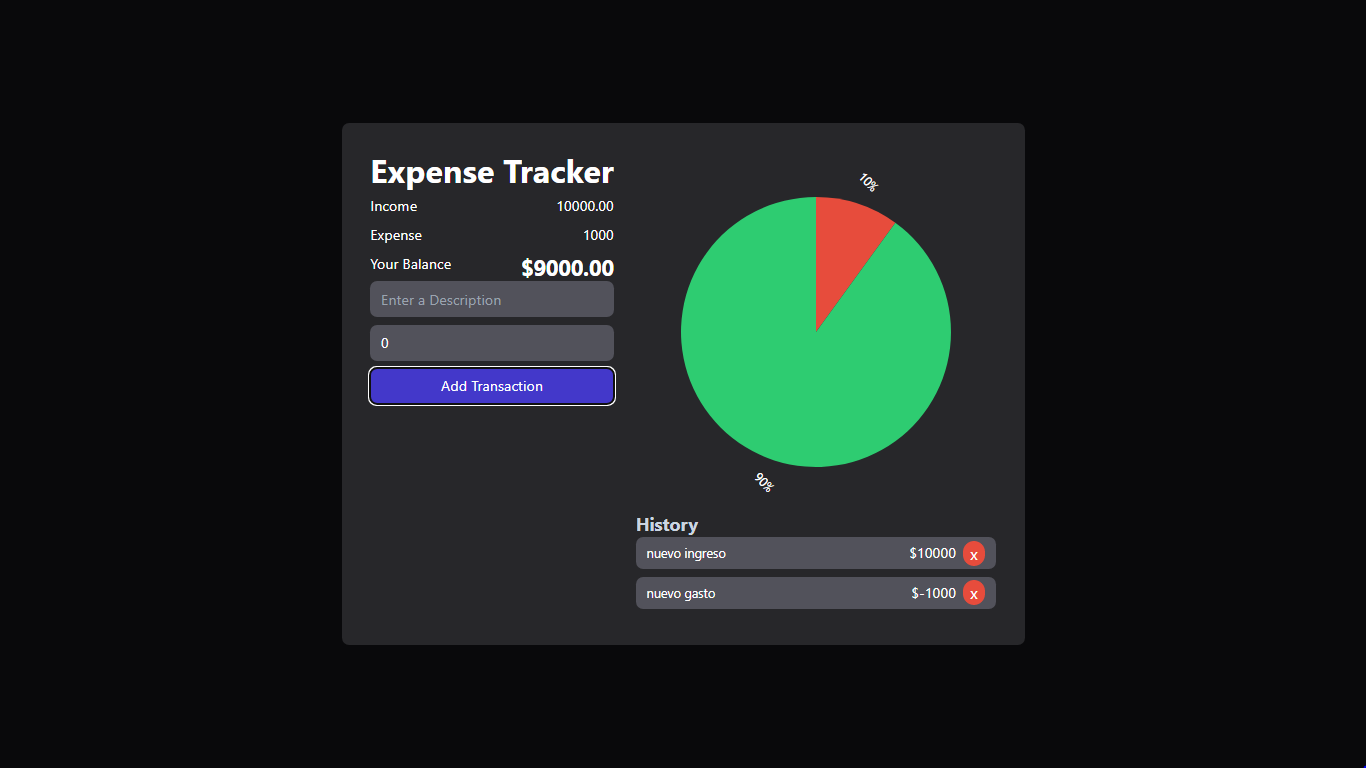
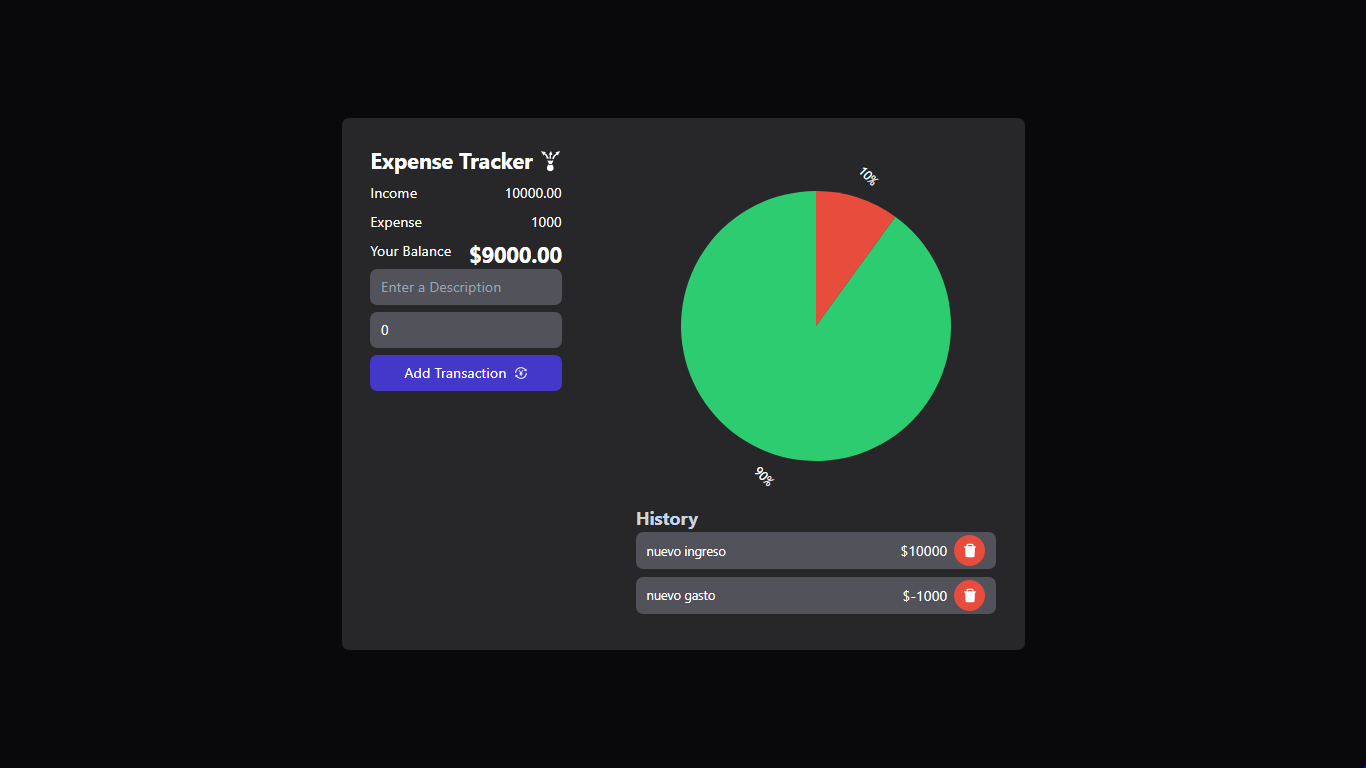
expense-tracker

diff --git a/src/components/ExpenseChart.jsx b/src/components/ExpenseChart.jsx
@@ -1,3 +1,6 @@
+//react-icons
+import { AiFillPieChart } from "react-icons/ai";
+
 //react-victory
 import { VictoryPie, VictoryLabel } from "victory";
 
@@ -9,6 +12,8 @@ const ExpenseChart = () => {
   const { transactions } = useGlobalState();
 
   //variables
+  const amounts = transactions.map((transaction) => transaction.amount);
+  const total = amounts.reduce((acc, item) => (acc += item), 0).toFixed(2);
   const totalIncome = transactions
     .filter((transaction) => transaction.amount > 0)
     .reduce((acc, transaction) => (acc += transaction.amount), 0);
@@ -22,16 +27,32 @@ const ExpenseChart = () => {
   const totalIncomePercentage = 100 - totalExpensesPercentage;
 
   return (
-    <VictoryPie
-      colorScale={["#e74c3c", "#2ecc71"]}
-      data={[
-        { x: "Expenses", y: totalExpensesPercentage },
-        { x: "Incomes", y: totalIncomePercentage },
-      ]}
-      animate={{ duration: 200 }}
-      labels={({ datum }) => `${datum.y}%`}
-      labelComponent={<VictoryLabel angle={45} style={{ fill: "white" }} />}
-    />
+    <>
+      {+total === 0 ? (
+        <h2 className="text-slate-300 text-lg font-bold block mb-5">
+          <p className="flex items-center justify-start gap-x-2">
+            No transactions: unable to display the chart <AiFillPieChart />
+          </p>
+        </h2>
+      ) : +total < 0 ? (
+        <h2 className="text-slate-300 text-lg font-bold block mb-5">
+          <p className="flex items-center justify-start gap-x-2">
+            Negative balance: unable to display the graph <AiFillPieChart />
+          </p>
+        </h2>
+      ) : (
+        <VictoryPie
+          colorScale={["#e74c3c", "#2ecc71"]}
+          data={[
+            { x: "Expenses", y: totalExpensesPercentage },
+            { x: "Incomes", y: totalIncomePercentage },
+          ]}
+          animate={{ duration: 200 }}
+          labels={({ datum }) => `${datum.y}%`}
+          labelComponent={<VictoryLabel angle={45} style={{ fill: "white" }} />}
+        />
+      )}
+    </>
   );
 };
 

diff --git a/src/context/ExpenseTrackerContext.jsx b/src/context/ExpenseTrackerContext.jsx
@@ -1,6 +1,9 @@
 //react
 import { createContext, useContext, useReducer, useEffect } from "react";
 
+//sweetalert2
+import Swal from "sweetalert2";
+
 //reducer
 import AppReducer from "./AppReducer";
 
@@ -33,16 +36,60 @@ export const ExpenseTrackerProvider = ({ children }) => {
 
   //functions
   const addTransaction = (transaction) => {
-    dispatch({
-      type: "ADD_TRANSACTION",
-      payload: transaction,
+    Swal.fire({
+      icon: "question",
+      title: "Question",
+      text: "do you want to add this transaction to the transaction list?",
+      showDenyButton: true,
+      denyButtonText: "No",
+      denyButtonColor: "#4338ca",
+      confirmButtonText: "Yes",
+      confirmButtonColor: "#2ecc71",
+    }).then((response) => {
+      if (response.isConfirmed) {
+        dispatch({
+          type: "ADD_TRANSACTION",
+          payload: transaction,
+        });
+        Swal.fire({
+          icon: "success",
+          title: "Success",
+          text: "Task successfully deleted",
+          timer: 2000,
+          confirmButtonColor: "#2ecc71",
+        });
+      } else if (response.isDenied) {
+        return;
+      }
     });
   };
 
   const deleteTransaction = (id) => {
-    dispatch({
-      type: "DELETE_TRANSACTION",
-      payload: id,
+    Swal.fire({
+      icon: "error",
+      title: "Warning",
+      text: "Do you want to remove this transaction from the transaction list?",
+      showDenyButton: true,
+      denyButtonText: "No",
+      denyButtonColor: "#4338ca",
+      confirmButtonText: "Yes",
+      confirmButtonColor: "#e74c3c",
+    }).then((response) => {
+      if (response.isConfirmed) {
+        dispatch({
+          type: "DELETE_TRANSACTION",
+          payload: id,
+        });
+        Swal.fire({
+          icon: "success",
+          title: "Success",
+          text: "Task successfully deleted",
+          timer: 2000,
+          confirmButtonColor: "#2ecc71",
+        });
+      } else if (response.isDenied) {
+        return;
+      }
     });
   };
 

diff --git a/src/components/transactions/TransactionList.jsx b/src/components/transactions/TransactionList.jsx
@@ -8,9 +8,15 @@ const TransactionList = () => {
   //context variables
   const { transactions } = useGlobalState();
 
+  const amounts = transactions.map((transaction) => transaction.amount);
+  const total = amounts.reduce((acc, item) => (acc += item), 0).toFixed(2);
+  console.info(total);
+
   return (
     <>
-      <h3 className="text-slate-300 text-xl font-bold block">History</h3>
+      <h3 className="text-slate-300 text-xl font-bold block">
+        {+total === 0 ? "Empty history" : "History"}
+      </h3>
       <ul>
         {transactions.map((transaction) => (
           <TransactionItem key={transaction.id} transaction={transaction} />

diff --git a/src/components/transactions/TransactionItem.jsx b/src/components/transactions/TransactionItem.jsx
@@ -1,3 +1,6 @@
+//react-icons
+import { AiFillDelete } from "react-icons/ai";
+
 //context
 import { useGlobalState } from "../../context/ExpenseTrackerContext";
 
@@ -11,10 +14,10 @@ const TransactionItem = ({ transaction }) => {
       <div className="flex items-center gap-x-2">
         <span>${transaction.amount}</span>
         <button
-          className="bg-[#e74c3c] text-white text-lg px-2 rounded-full"
+          className="bg-[#e74c3c] text-white text-lg p-2 rounded-full"
           onClick={() => deleteTransaction(transaction.id)}
         >
-          x
+          <AiFillDelete />
         </button>
       </div>
     </li>

diff --git a/src/components/transactions/TransactionForm.jsx b/src/components/transactions/TransactionForm.jsx
@@ -1,6 +1,9 @@
 //react
 import { useState } from "react";
 
+//react-icons
+import { AiOutlineTransaction } from "react-icons/ai";
+
 //context
 import { useGlobalState } from "../../context/ExpenseTrackerContext";
 
@@ -56,7 +59,9 @@ const TransactionForm = () => {
               : "cursor-not-allowed"
           }`}
         >
-          Add Transaction
+          <p className="flex items-center justify-center gap-x-2">
+            Add Transaction <AiOutlineTransaction />
+          </p>
         </button>
       </form>
     </div>

diff --git a/src/components/Header.jsx b/src/components/Header.jsx
@@ -1,5 +1,14 @@
+//react-icons
+import { GiExpense } from "react-icons/gi";
+
 const Header = () => {
-  return <h1 className="text-4xl font-bold">Expense Tracker</h1>;
+  return (
+    <h1 className="text-2xl font-bold">
+      <p className="flex items-center justify-start gap-x-2">
+        Expense Tracker <GiExpense />
+      </p>
+    </h1>
+  );
 };
 
 export default Header;

diff --git a/README.md b/README.md
@@ -40,7 +40,9 @@ Código base de la aplicación Expense Tracker Hecha en React.js y Tailwind CSS.
 ## Dependencias
 
 - React
+- React Icons
 - React Victory
+- Sweetalert2
 
 ---
 
